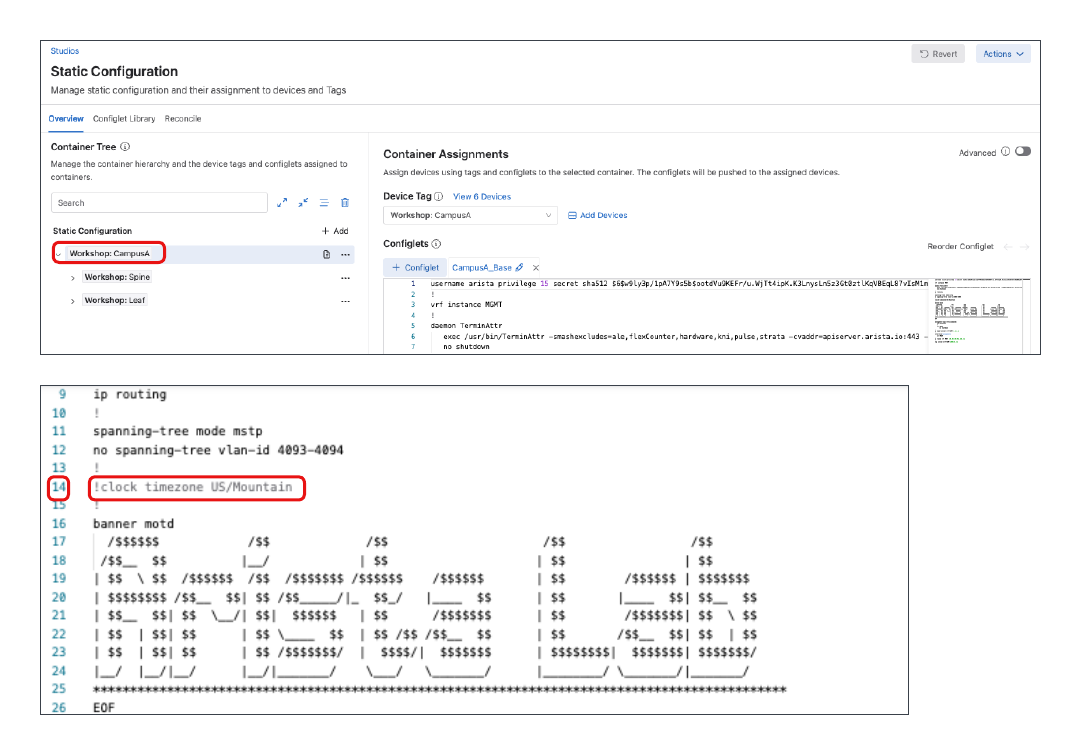
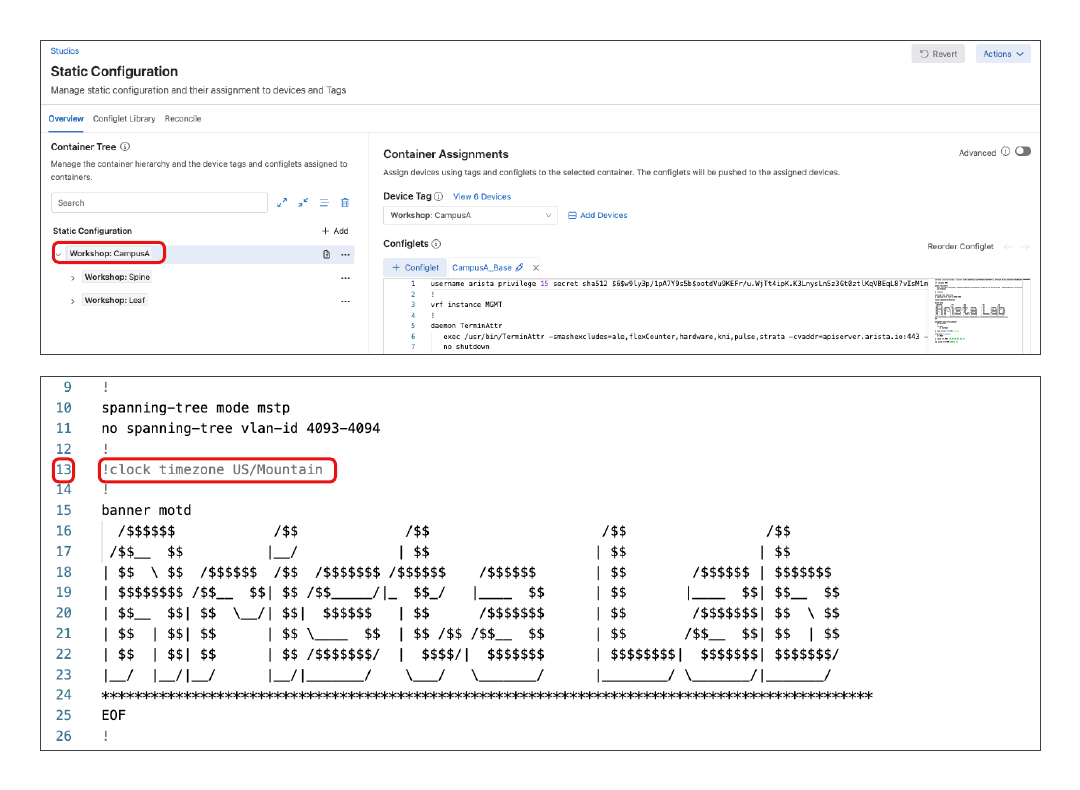
Adding section complete to lab3. Line number changed for time is static configlet. Update image and reference to line number.

Changed region(s): [[0.0306, 0.0305, 0.9472, 0.9748], [0.8861, 0.1828, 0.9778, 0.2132]]

diff --git a/CloudVision/2026/Lab-03/CV_Workshop_Lab3.md b/CloudVision/2026/Lab-03/CV_Workshop_Lab3.md
@@ -259,6 +259,7 @@ In this lab we will demonstrate the use of the Campus Fabric Studio. We will bui
 
 ![Complete Change Control](images/cc-complete.png)
 
+**LAB SECTION COMPLETE**
 ---
 
 ### Order of Operations
@@ -303,7 +304,7 @@ In this lab section, we are going to demonstrate an example of how the order of 
 
 8. Select the top container in your hierarchy structure where the configlet **CampusA_Base** is applied.
 
-   - Locate the **clock timezone** command in the static configuration **Line14**
+   - Locate the **clock timezone** command in the static configuration **Line13**
 
    - Add a **!** to the beginning of that line to comment out the command
 
